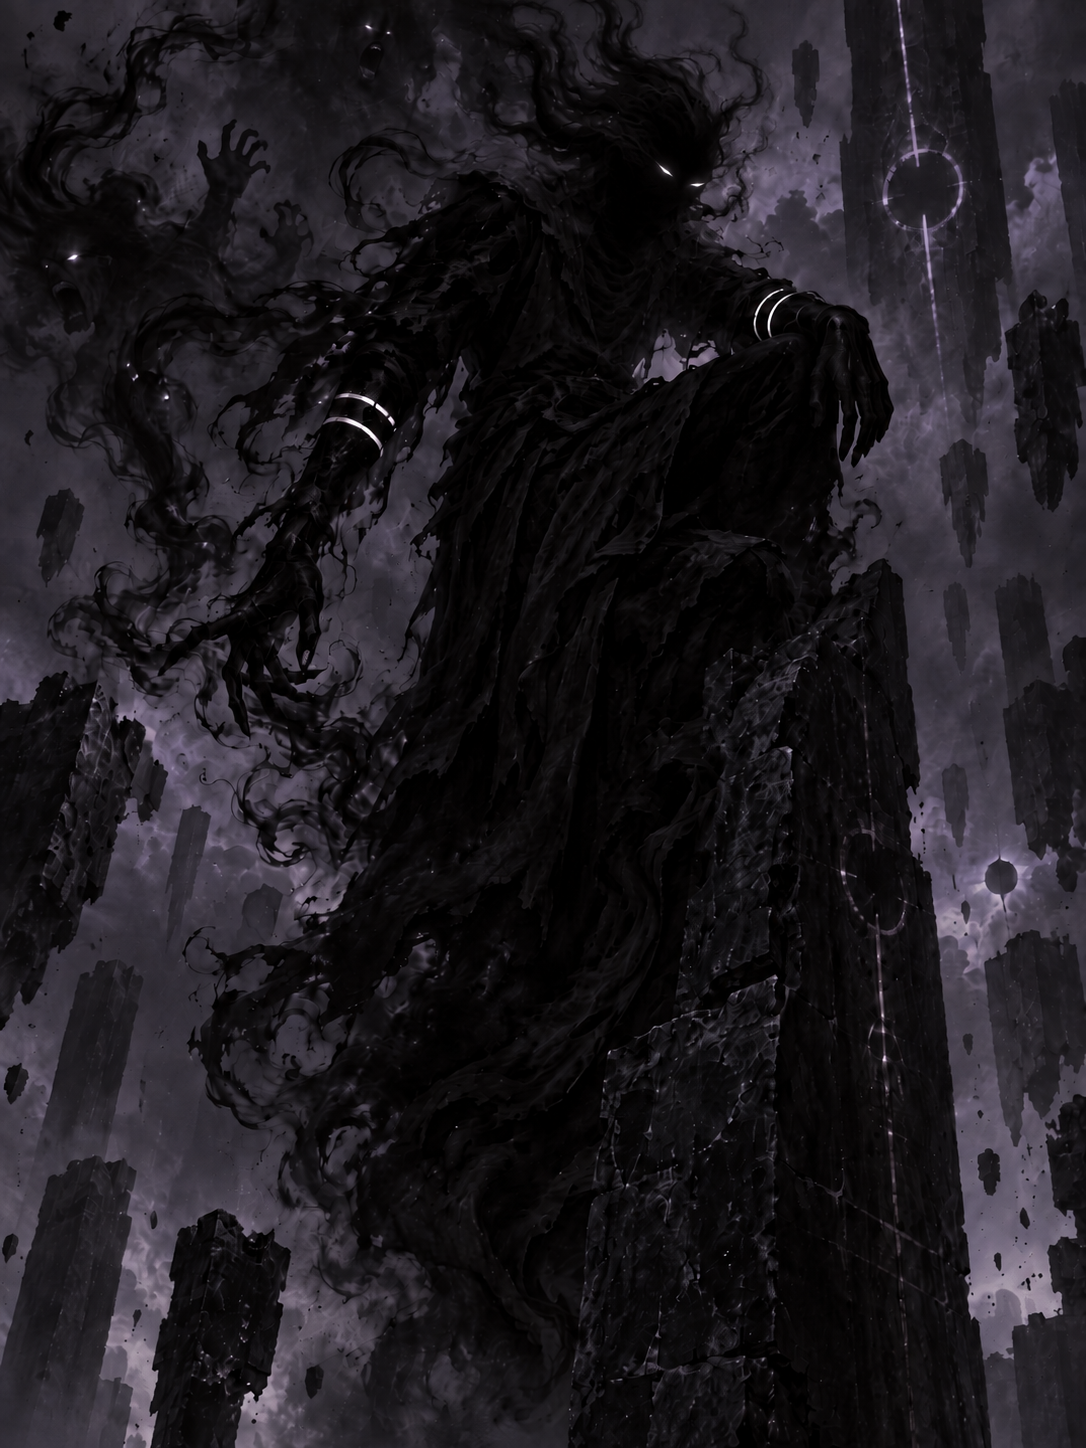
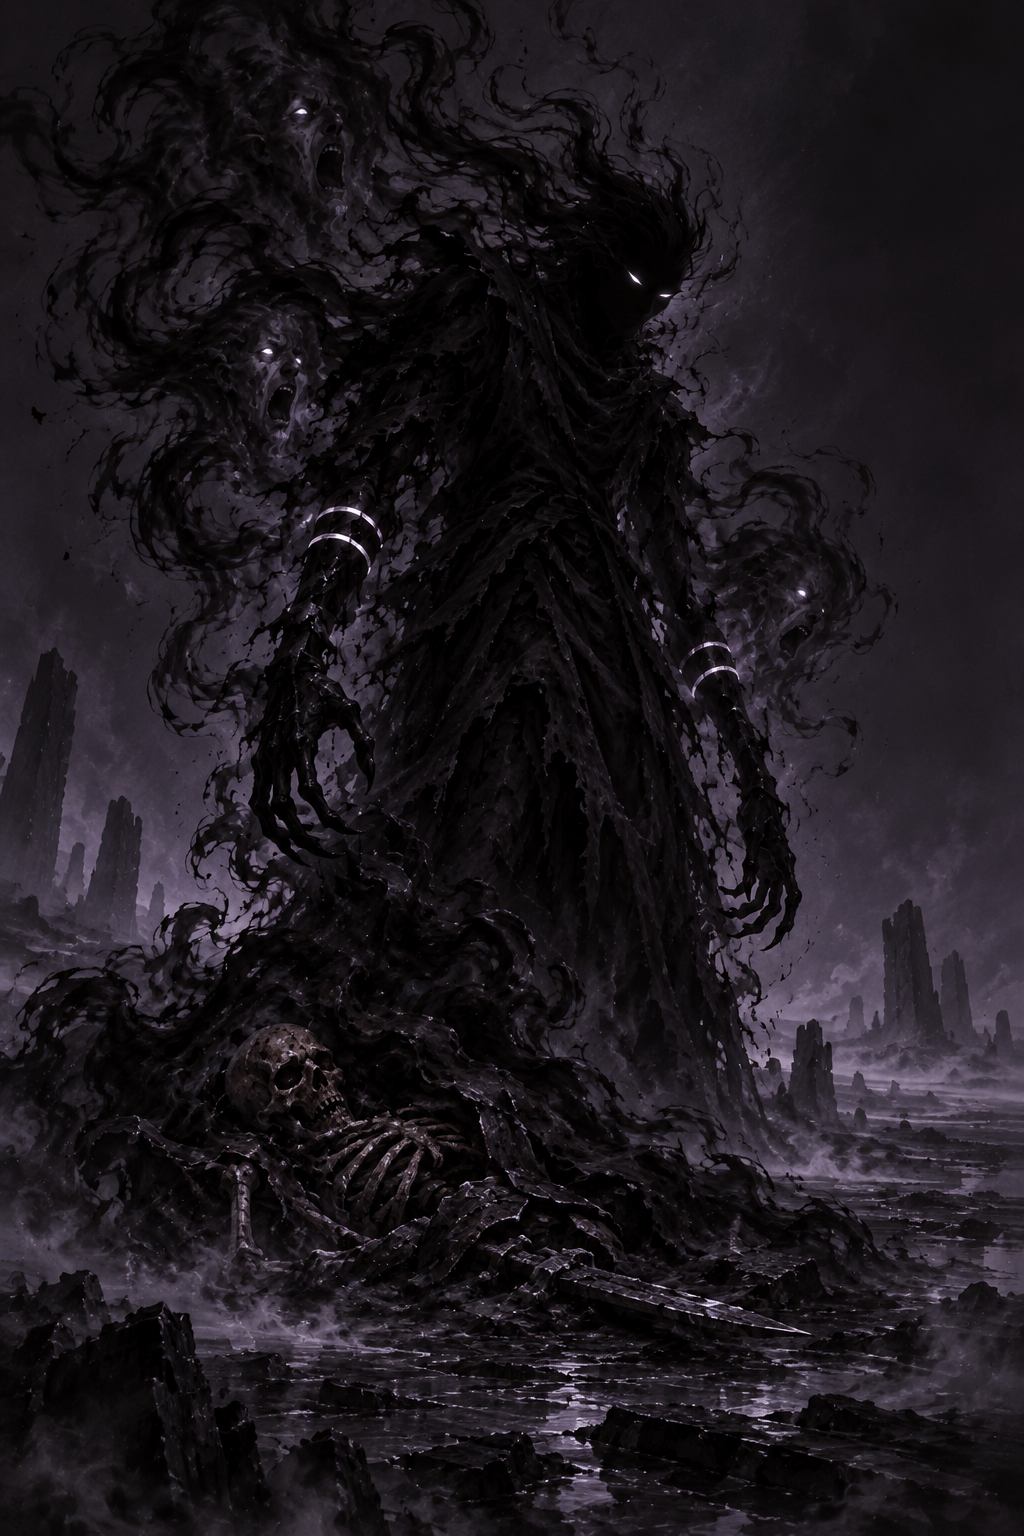
Replace Keanu artwork and preserve full portrait composition

diff --git a/npcs/keanu.html b/npcs/keanu.html
@@ -12,7 +12,7 @@
   <link rel="stylesheet" href="/aevum-archive/assets/master-ui.css?v=20260821-2">
   <link rel="stylesheet" href="/aevum-archive/assets/global-header.css?v=20260902-header4">
   <link rel="stylesheet" href="/aevum-archive/assets/npc-effects.css?v=20260918-2">
-  <link rel="stylesheet" href="/aevum-archive/assets/npc-legacy-pack.css?v=20260918-2">
+  <link rel="stylesheet" href="/aevum-archive/assets/npc-legacy-pack.css?v=20261017-keanu">
 </head>
 <body class="archive-page theme-npcs page-detail route-npcs-keanu route-npcs-legacy legacy-keanu">
   <header class="site-header">
@@ -36,12 +36,12 @@
 <main class="page legacy-page legacy-converted">
 <section class="legacy-hero" aria-labelledby="keanu-title">
   <div class="legacy-hero-copy"><p class="eyebrow">Lost record · living curse</p><h1 id="keanu-title">Keanu</h1><p class="legacy-title">The Living Curse</p><p class="lede">Keanu was not a human covered in shadow. He was a Curse that learned to hold a humanoid shape — Faaram's shadow rather than his blade.</p><div class="legacy-status"><span>Gone / Lost</span><span>Raw PL 1080</span><span>Threat ≈ 1450</span></div><blockquote class="legacy-quote">Faaram's shadow rather than his blade.</blockquote></div>
-  <figure class="legacy-portrait"><img src="/aevum-archive/assets/images/keanu.png" alt="Keanu as a towering living shadow with pale eyes and forearm bands in the Shadow Realm" width="1086" height="1448"><figcaption><span>Recovered likeness</span><strong>The Living Curse</strong></figcaption></figure>
+  <figure class="legacy-portrait"><img src="/aevum-archive/assets/images/keanu.png?v=20261017" alt="Keanu as a towering shadow curse with pale eyes, glowing forearm bands and screaming spectral faces" width="1024" height="1536" fetchpriority="high"><figcaption><span>Recovered likeness</span><strong>The Living Curse</strong></figcaption></figure>
 </section>
 <section class="legacy-record-strip" aria-label="Keanu record details"><div><span>Status</span><strong>Gone / Lost Beyond Recovery</strong></div><div><span>Known Bond</span><strong>Faaram</strong></div><div><span>Realm</span><strong>Shadow Realm</strong></div><div><span>Raw PL</span><strong>1080</strong></div><div><span>Threat Rating</span><strong>Approx. 1450</strong></div></section>
 <section class="section"><article class="card lore-notes"><h2>Notes</h2><ul><li>Keanu was remembered as Faaram's shadow: quiet, patient and horrifyingly difficult to remove.</li><li>He was not a person transformed by a curse. The humanoid figure was a temporary arrangement of dense shadow, smoke, Curse energy and clothing.</li><li>No ordinary face waited beneath the darkness. Only two narrow points of pale light remained steady while his head and shoulders dissolved into smoke.</li><li>Thin pale bands around his forearms were among the few fixed marks in a silhouette whose hands, robes and edges never stayed entirely solid.</li><li>Where Jiro crushed what stood before him, Keanu attached himself to a target — watching, following and appearing only when necessary.</li><li>He entered the Shadow Realm without a portal by letting his connection to the physical world fall away until even his eyes disappeared.</li><li>Inside that realm, damaged shadow and Curse matter could gather again. Destroying the visible body was not always the same as destroying Keanu.</li><li>He could create powerful Curses and heal other Curse entities, with shapes sometimes surfacing briefly inside the darkness around him.</li><li>After Ichiro fell, Keanu carried the remains into the Shadow Realm and sacrificed his conscious existence to maintain the Curse sealing them there. His later reappearance made the meaning of his disappearance uncertain.</li><li>Faaram eventually stopped searching for him. The archive records Keanu as lost beyond recovery unless a future age proves otherwise.</li></ul></article></section>
 <section class="section grid three"><article class="card curse-npc"><h2>Curse shape</h2><p>Curse Vessel, Living Curse, Shadow Curse, Undying Hex Servant — later names for the same old truth: Keanu was a Curse maintaining a body-shaped shadow.</p></article><article class="card"><h2>Shadow retreat</h2><p>The Shadow Realm made him terrifyingly hard to end. Killing him was not the same as keeping him gone.</p></article><article class="card lost-relic-card"><h2>Current echo</h2><p>No grave holds him, no confirmed body remains, and no active search continues. Only the shape of his absence is certain.</p></article></section>
-<section class="section npc-portrait-section"><article class="card portrait-card"><p class="eyebrow">Recovered likeness</p><h2>The Living Curse</h2><div class="inline-artwork portrait-wide"><img src="/aevum-archive/assets/images/keanu.png" alt="Keanu as a towering living shadow with pale eyes and forearm bands in the Shadow Realm" width="1086" height="1448" loading="lazy"></div></article></section><footer class="footer"><span>&#10022; Aevum Archive &mdash; witnessed knowledge only.</span><span>Unwritten pages remain sealed until discovered.</span></footer>
+<section class="section npc-portrait-section"><article class="card portrait-card"><p class="eyebrow">Recovered likeness</p><h2>The Living Curse</h2><div class="inline-artwork portrait-wide"><img src="/aevum-archive/assets/images/keanu.png?v=20261017" alt="Keanu as a towering shadow curse with pale eyes, glowing forearm bands and screaming spectral faces" width="1024" height="1536" loading="lazy"></div></article></section><footer class="footer"><span>&#10022; Aevum Archive &mdash; witnessed knowledge only.</span><span>Unwritten pages remain sealed until discovered.</span></footer>
   </main>
 <script src="/aevum-archive/assets/master-ui.js?v=20260821-2" defer></script>
 </body>

diff --git a/assets/npc-archive-refresh.css b/assets/npc-archive-refresh.css
@@ -202,7 +202,7 @@ body:has(.record-hero) .tag-row { justify-content: flex-end; opacity: 1 !importa
 body.route-npcs-bomir .record-hero > .character-card { background: linear-gradient(90deg, rgba(7, 6, 8, .7), transparent 25%), linear-gradient(180deg, transparent 55%, #050407 100%), url("/aevum-archive/assets/images/bomir.png") 50% 12% / cover no-repeat !important; }
 body.route-npcs-ichiro .record-hero > .character-card { background: linear-gradient(90deg, rgba(7, 6, 8, .72), transparent 25%), linear-gradient(180deg, transparent 55%, #050407 100%), url("/aevum-archive/assets/images/ichiro.png") 50% 15% / cover no-repeat !important; }
 body.route-npcs-jiro .record-hero > .character-card { background: linear-gradient(90deg, rgba(7, 6, 8, .7), transparent 25%), linear-gradient(180deg, transparent 55%, #050407 100%), url("/aevum-archive/assets/images/jiro.png") 50% 14% / cover no-repeat !important; }
-body.route-npcs-keanu .record-hero > .character-card { background: linear-gradient(90deg, rgba(7, 6, 8, .72), transparent 25%), linear-gradient(180deg, transparent 55%, #050407 100%), url("/aevum-archive/assets/images/keanu.png") 50% 12% / cover no-repeat !important; }
+body.route-npcs-keanu .record-hero > .character-card { background: linear-gradient(90deg, rgba(7, 6, 8, .72), transparent 25%), linear-gradient(180deg, transparent 55%, #050407 100%), url("/aevum-archive/assets/images/keanu.png?v=20261017") 50% 12% / cover no-repeat !important; }
 
 body.route-npcs-bomir .record-hero .portrait-slot,
 body.route-npcs-ichiro .record-hero .portrait-slot,

diff --git a/assets/npc-legacy-pack.css b/assets/npc-legacy-pack.css
@@ -199,3 +199,8 @@ body.legacy-timeo { --legacy-accent: #dc737a; --legacy-accent-rgb: 220, 115, 122
 }
 
 @media (prefers-reduced-motion: reduce) { .izumi-controls button { transition: none; } }
+
+/* Keanu's replacement artwork keeps its full 2:3 composition at every viewport. */
+.route-npcs-keanu .legacy-hero { min-height: 0; align-items: center; }
+.route-npcs-keanu .legacy-portrait { min-height: 0; }
+.route-npcs-keanu .legacy-portrait img { height: auto; min-height: 0; }

diff --git a/tests/test_keanu_artwork.py b/tests/test_keanu_artwork.py
@@ -1,0 +1,36 @@
+"""The approved Keanu artwork replaces the old file without keeping a second version."""
+
+import hashlib
+from pathlib import Path
+import re
+import struct
+import unittest
+
+ROOT = Path(__file__).resolve().parents[1]
+
+
+class KeanuArtworkTest(unittest.TestCase):
+    def test_artwork_is_the_exact_supplied_replacement(self):
+        artwork = (ROOT / "assets/images/keanu.png").read_bytes()
+        self.assertEqual(hashlib.sha256(artwork).hexdigest(),
[1 lines of base64/hex data omitted]
+        self.assertEqual(struct.unpack(">II", artwork[16:24]), (1024, 1536))
+        self.assertEqual(list((ROOT / "assets/images").glob("keanu*")), [ROOT / "assets/images/keanu.png"])
+
+    def test_portrait_metadata_and_cache_version_match(self):
+        detail = (ROOT / "npcs/keanu.html").read_text(encoding="utf-8")
+        portraits = re.findall(r'<img\b[^>]*src="[^"]*/keanu\.png[^>]+>', detail)
+        self.assertEqual(len(portraits), 2)
+        for portrait in portraits:
+            self.assertIn("keanu.png?v=20261017", portrait)
+            self.assertIn('width="1024" height="1536"', portrait)
+            self.assertIn("spectral faces", portrait)
+        self.assertNotIn('width="1086" height="1448"', detail)
+        css = (ROOT / "assets/npc-archive-refresh.css").read_text(encoding="utf-8")
+        self.assertIn("keanu.png?v=20261017", css)
+        self.assertIn("Gone / Lost Beyond Recovery", detail)
+        self.assertIn("Raw PL 1080", detail)
+
+
+if __name__ == "__main__":
+    unittest.main()

diff --git a/CHANGELOG.md b/CHANGELOG.md
@@ -1,5 +1,9 @@
 # Archive changelog
 
+## 2026-10-17
+
+- Replaced Keanu's old portrait with the new supplied artwork, updated its dimensions and cache version, and preserved the complete portrait composition on desktop and mobile.
+
 ## 2026-10-16
 
 - Restored Ichiro's original soul-fracture artwork and pulsing Soul Seal as an interactive entrance. The dossier stays hidden until the reader chooses "Lift the Soul Seal"; it can be veiled again without JavaScript or persistent unlocks.
